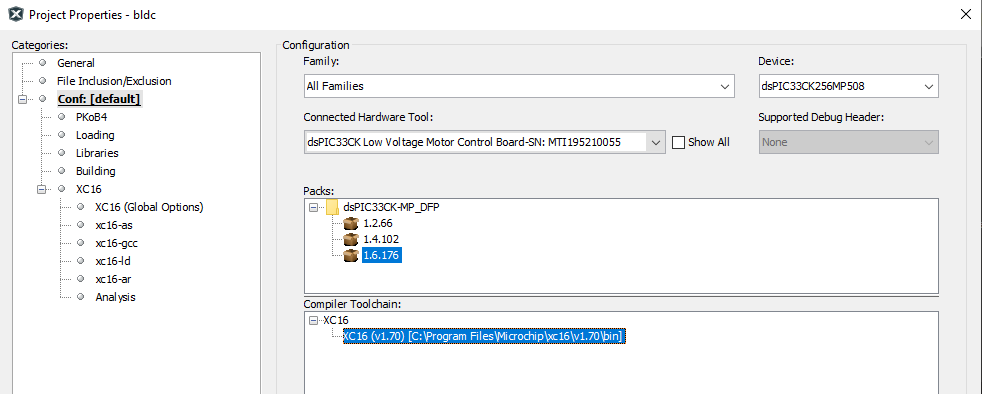
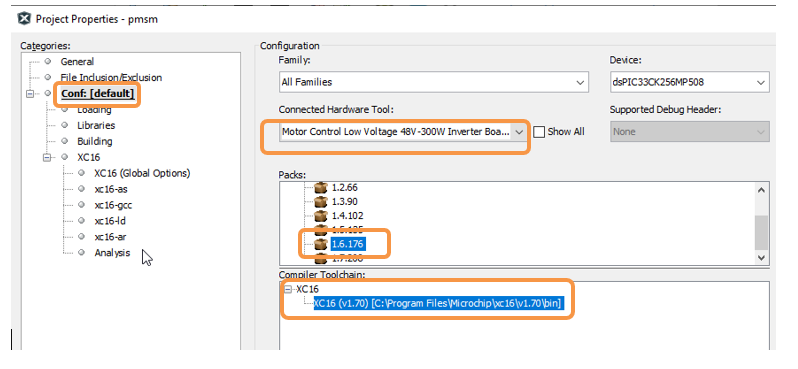
Created a Readme file for the project

diff --git a/README.md b/README.md
@@ -1,20 +1,262 @@
 ![image](images/microchip.jpg) 
 
-## mclv 48v 300w an1017
+## MCLV-48V-300W dsPIC33CK256MP508 AN1017
 
-Board Image if any.
+## 1. INTRODUCTION
+<p style='text-align: justify;'>
+This document describes the setup requirements for running the Sensored BLDC/PMSM Motor Control Algorithm, which is referenced in AN1017 “Sinusoidal Control of PMSM Motors” using a MCLV-48V-300W Inverter Board and dsPIC33CK256MP508 Motor Control Dual In-line Module (DIM).</p>
 
 ## Summary
+## 2.	SUGGESTED DEMONSTRATION REQUIREMENTS
+
+### 2.1 Motor Control Application Firmware Required for the Demonstration
+To clone or download this application from Github, go to the [main page of this repository](https://github.com/microchip-pic-avr-solutions/mclv-48v-300w-an1017) and then click Clone button to clone this repository or download as zip file.
+> **_NOTE:_**
+>In this document, hereinafter this firmware package is referred as firmware.
+### 2.2 Software Tools Used for Testing the firmware
+
+- MPLAB® X IDE v5.50 
+- MPLAB® XC16 Compiler v1.70
+- MPLAB® X IDE Plugin: X2C-Scope v1.3.0 
+- DFP: dsPIC33CK-MP_DFP v1.6.176
+> **_NOTE:_**
+>The software used for testing the firmware prior to release is listed above. It is recommended to use the version listed above or later versions for building the firmware.
+### 2.3 Hardware Tools Required for the Demonstration
+- MCLV-48V-300W Inverter Board (EV18H47A)
+- 	dsPIC33CK256MP508 Motor Control DIM (EV62P66A)
+- 24V Power Supply [(AC002013)](https://www.microchipdirect.com/dev-tools/AC002013)
+- 24V 3-Phase Brushless DC Motor [(AC300020)](https://www.microchip.com/en-us/development-tool/AC300020)
+  <br />
+> **_NOTE:_**
+> All items listed under the section Hardware Tools Required for the Demonstration are available at [microchip DIRECT](https://www.microchipdirect.com/)
+
+## 3. HARDWARE SETUP
+<p style='text-align: justify;'>This section describes hardware setup required for the demonstration.</p>
+
+1. <p style='text-align: justify;'> Insert the dsPIC33CK256MP508 Motor Control DIM into the DIM Interface Connector J8 provided on the MCLV-48V-300W Inverter Board. Make sure the DIM is placed correctly and oriented before going ahead.</p>
+
+   <p align="left">
+    <img  src="images/dimconnected.PNG"></p>
+
+2. <p style='text-align: justify;'> Connect the three phase wires from the motor to PHA, PHB & PHC terminals of connector J14, provided on the MCLV-48V-300W Inverter Board. as mentioned in the below table. </p>
+
+   | MCLV Board|Hurst075 Motor| |
+   | :--------:| :-----------:|:--:|
+    |           |Winding Terminals (Color as per image below) | Molex 39-01-2040(Mating Connector)    |
+    | PHC   | Red   | 1|
+    | PHB   | Black | 2|
+    | PHA   | White | 3|
 
 
-## Related Documentation
+3. <p style='text-align: justify;'>Connect the hall sensors from the motor to HA, HB and HC terminals of connector J5, provided on the MCLV-48V-300W Inverter Board as mentioned in the below table. </p>
+
+    |MCLV2 Board|	Hurst075 Motor||
+    |:---:|:----------------------:|:----------------------:|
+    ||Hall Terminals(Color as per image above)|	Molex 50-57-9408 (Mating Connector)|
+     |5V|	Red|	1|
+     |GND|	Black|	2|
+     |HA	| White	|4|
+     |HB	|Brown|	3|
+     |HC|	Green|	5|
+  
 
 
-## Software Used 
+     <p align="left">
+       <img  src="images/motorconnection.png"></p>
+
+4.  <p style='text-align: justify;'>	Plug in the 24V power supply to connector J1 provided on the MCLV-48V-300W Inverter Board. Alternatively, the Inverter Board can also be powered through Connector J3.</p>
+      <p align="left">
+      <img  src="images/mclvpower.png"></p>
+ 
+
+ 5.	<p style='text-align: justify;'>The board has an onboard programmer ‘PICkit™ On Board (PKoB4)’ , which can be used for programming or debugging the dsPIC33CK256MP508. To use an on-board programmer, connect a micro-USB cable between Host PC and Connector J16 provided on the MCLV-48V-300W Inverter Board.</p>
 
 
-## Hardware Used
+      <p align="left">
+     <img  src="images/mclvpkob4.png"></p>
 
+ 6.	<p style='text-align: justify;'>Alternatively, the device can also be programmed using the programmer/debugger (MPLAB® PICkit™ 4 In-Circuit Debugger - PG164140) by interfacing it through connector J9 of the MCLV-48V-300W Inverter Board as shown below. Ensure that the programmer is oriented correctly before proceeding.</p> 
+
+      <p align="left">
+       <img  src="images/mclvprogramming.PNG"></p>
+ 
+<br />
+
+##  4. SOFTWARE SETUP AND RUN
+### 4.1 Setup: MPLAB X IDE and MPLAB XC16 Compiler
+
+Install MPLAB X IDE and MPLAB XC16 Compiler versions that support the device dsPIC33CK256MP508 and PKoBv4. The MPLAB X IDE, MPLAB XC16 Compiler, and X2C-Scope plug-in used for testing the firmware are mentioned in the [Motor Control Application Firmware Required for the Demonstration](#21-motor-control-application-firmware-required-for-the-demonstration) section. To get help on  
+
+- MPLAB X IDE installation, refer [link](https://microchipdeveloper.com/mplabx:installation)
+- MPLAB XC16 Compiler installation steps, refer [link](https://microchipdeveloper.com/xc16:installation)
+
+<p style='text-align: justify;'>If MPLAB IDE v8 or earlier is already installed on your computer, then run the MPLAB driver switcher (It is installed when MPLAB®X IDE is installed) to switch from MPLAB IDE v8 drivers to MPLAB X IDE drivers. If you have Windows 7 or 8, you must run MPLAB driver switcher in ‘Administrator Mode’. To run the Device Driver Switcher GUI application as administrator, right click on the executable (or desktop icon) and select ‘Run as Administrator’. For additional details refer MPLAB X IDE help topic <i>“Before You Begin: Install the USB Device Drivers (For Hardware Tools): USB Driver Installation for Windows Operating Systems”</i>. </p>
+
+### 4.2  X2C-Scope
+<p style='text-align: justify;'>
+X2C-Scope is a MPLAB X IDE plugin that allows a developer to interact with an application while the application program is running. X2C-Scope enables you to read, write, and plot global variables (for motor control) in real time. It communicates with the target using the UART. To use X2C-Scope, the plugin must be installed:</p>
+
+- In MPLAB X IDE, select <i>Tools>Plugins</i> and click on the Available Plugins tab.
+- Select X2C-Scope plug-in by checking its check box, and then click Install.
+- Look for tool X2C-Scope under <i>Tools>Embedded.</i>
+   <p align="left">
+  <img  src="images/x2cscopeconfiguration.png"></p>
+ 
+<br />
+
+## 5.  BASIC DEMONSTRATION
+### 5.1 Firmware Description
+
+The firmware version needed for the demonstration is mentioned under the [Motor Control Application Firmware Required for the Demonstration](#21-motor-control-application-firmware-required-for-the-demonstration) section.
+<p style='text-align: justify;'>
+This firmware is implemented to work on Microchip’s 16-bit Digital signal controller (dsPIC® DSC) dsPIC33CK256MP508. 
+For more information, see the dsPIC33CK256MP508 Family datasheet (DS70005349).</p>
+<p style='text-align: justify;'>
+The Motor Control Demo application uses push button to start or stop the motor and potentiometer to vary speed of the motor.This Motor Control Demo Application configures and uses peripherals like PWM, ADC, UART etc.</p>
+
+<p style='text-align: justify;'>
+
+For more details refer Microchip Application note AN1078 “Sensorless Field Oriented Control of a PMSM” available at [Microchip web site](https://www.microchip.com/). </p>
+
+> **_NOTE:_**
+> The project may not build correctly in Windows OS if Maximum path length of any source file in the project is more than 260 characters. In case absolute path is exceeding or nearing maximum length, do any (or both) of the following:
+> - Shorten the directory name containing the firmware used in this demonstration. If you renamed the directory, consider the new name while reading the instructions provided in the upcoming sections of the document.
+> - Place firmware in a location, such that absolute path length of each file included in the projects does not exceed the Maximum Path length specified. 
+Refer to MPLAB X IDE help topic <i>“Path, File, and Folder Name Restrictions”</i> for details.
+
+### 5.2 Basic Demonstration
+<p style='text-align: justify;'>
+Follow below instructions step by step to setup and run the motor control demo application:</p>
+
+1.  <p style='text-align: leftjustify;'> Start MPLAB X IDE and open<span style="font-family:Courier New; font-size:;"> (File>Open Project)</span> the project <span style="font-family:Courier New; font-size:;">bldc.X</span> with device selection dsPIC33CK256MP508.</p>
+     <p align="left">
+       <img  src="images/idedeviceselection.png"></p>
+
+2. <p style='text-align: leftjustify;'> Set the project <span style="font-family:Courier New; font-size:;">bldc.X </span>as main project by right clicking on the project name and selecting “Set as Main Project” as shown. The project <b>bldc</b> will then appear in bold.</p>
+    <p align="left">
+     <img  src="images/ideprojectsetup.png"></p>
+
+3.  <p style='text-align: leftjustify;'> Open <span style="font-family:Courier New; font-size:;">bldc_main.h </span>(under<span style="font-family:Courier New; font-size:;"> bldc.X -> headerfiles)</span> in the project <span style="font-family:Courier New; font-size:;">bldc.X</span> </p>
+     <p style='text-align: leftjustify;'>
+- Ensure that <span style="font-family:Courier New; font-size:;"> OPENLOOP</span>is not defined.
+      <p align="left"><img  src="images/projectopenloopsetup.png"></p>
+- Comment out the <span style="font-family:Courier New; font-size:;"> #define PHASE_ADVANCE </span>for above base speed applications
+        <p align="left"> <img  src="images/projectphase advancesetup.png"></p>
+4. Right click on the project <i>bldc.X</i> and select “Properties”  to open its Project Properties Dialog.Click the “Conf: [default]” category to reveal the general project configuration information. The development tools used for testing the firmware are listed in the section [2.2 Software Tools Used for Testing the firmware](#22-software-tools-used-for-testing-the-firmware).
+   <p style='text-align: justify;'>
+    In the <b><i>‘Conf: [default]’</i></b> category window: 
+    <p style='text-align: justify;'>  
+- Select the specific Compiler Toolchain from the available list of compilers. Please ensure MPLAB® XC16 Compiler supports the device dsPIC33CK256MP508.In this case, “XC16(v1.70)” is selected.
+      <p style='text-align: justify;'>
+ - Select the Hardware Tool to be used for programming and debugging. 
+       <p style='text-align: justify;'>
+-	Select the specific Device Family Pack (DFP) from the available list of Packs. In this case, “dsPIC33CK-MP_DFP 1.6.176” is selected.     
+ -   After selecting Hardware Tool and Compiler Toolchain, click button <b>Apply</b>
+        <p align="left">
+        <img  src="images/properties.png"></p>    
+
+5. <p style='text-align: justify;'> Ensure that the checkbox <b>“Load symbols when programming or building for production (slows process)”</b> is checked, which is under the “Loading” category of the Project Properties window.</p>        
+        
+      <p align="left">
+      <img  src="images/loadvariables.png"></p>
+
+6. <p style='text-align: justify;'>	 To build the project (in this case pmsm.X) and program the device dsPIC33CK256MP508, click <b>“Make and Program Device Main project”</b> on the toolbar.</p>
+    <p align="left">
+    <img  src="images/deviceprogramming.png"></p>
+  
+7. <p style='text-align: justify;'>	 	If the device is successfully programmed, <b>LD2 (‘LED1’)</b>  will be turned ON, indicating that the dsPIC® DSC is enabled. </p> 
+    <p align="left">
+     <img  src="images/led.png"></p>
+
+
+8. <p style='text-align: justify;'> 	Run or stop the motor by pressing the push button <b>SW1</b>. The motor should start spinning smoothly in one direction in the ‘Normal Speed Range’. Ensure that the motor is spinning smoothly without any vibration. The LED LD2 (‘LED1’) is turned ON to show the button is pressed to start the motor </p>
+     <p align="left">
+     <img  src="images/pushbuttons.png"></p>
+
+ 9.  <p style='text-align: justify;'> The motor speed can    be   varied using the potentiometer (labeled “POT1”).</p>
+    
+     <p align="left">
+      <img  src="images/potentiometer.png"></p>
+
+ 
+10.	<p style='text-align: justify;'>9.	To reverse the direction of rotation, press the push button  <b>SW2</b>.  
+      <p align="left">
+     <img  src="images/stopButton.png"></p>
+  
+
+11. <p style='text-align: justify;'>	Press the push button <b>SW1</b> to stop the motor.</p>
+
+>**_NOTE:_**
+>The macro definitions MAX_MOTORSPEED, MAX_MOTORCURRENT, POLEPAIRS, SECTOR and MAX_BOARDCURRENT are specified in bldc_main.h file included in the project bldc.X. The definitions MAX_MOTORSPEED and MAX_MOTORCURRENT are defined as per the specification provided by the Motor manufacturer. Exceeding manufacturer specification may lead to damage to the motor or (and) the board.  
+
+## 5.3  Data visualization through X2C-Scope Plug-in of MPLABX
+<p style='text-align: justify;'>
+ X2C-Scope is a third-party plug-in for MPLAB X, which helps in real-time diagnostics. The application firmware comes with the initialization needed to interface controller with the host PC to enable data visualization through X2C-Scope plug-in.</p>
+
+1. Ensure X2C-Scope Plug-in is installed. For additional information on how to set up a plug-in refer [https://microchipdeveloper.com/mplabx:tools-plugins-available](https://microchipdeveloper.com/mplabx:tools-plugins-available)
+ 
+2.	To establish serial communication with the host PC, connect a micro-USB cable between the host PC and the MCLV-48V-300W Inverter Board (connector J16). This interface is also used for programming.
+
+
+3. Ensure application is configured and running as described under Section [Basic Demonstration](#5-basic-demonstration   ) by following steps 1 through 11.
+
+ 
+
+4. Open the X2C-Scope window by selecting <span style="font-family:Courier New; font-size:;">Tools>Embedded>X2CScope.</span></p>
+      <p align="left">
+       <img  src="images/x2cselection.png"></p>
+ 
+
+5. Open the X2C-Scope Configuration window and in <b>“Select project”</b> menu, select <b>pmsm</b> project as shown.
+    <p align="left">
+    <img  src="images/x2cprojectselection.png"></p>
+
+6.	Serial communication needs to be set up, as shown in the following figure. Ensure the communication baud rate is set to 115200 as configured in the application firmware. The COM port used depends on the system settings. The <span style="font-family:Courier New; font-size:;">refresh button</span> lists the available COM Ports. Select the COM Port as per the connection.
+
+    <p align="left">
+     <img  src="images/x2cconnectionsetup.png"></p>
+ 
+
+
+7. Once the COM port is detected, click on “Disconnected” and turn to “Connected”, to establish a serial communication between Host PC and the board.
+     <p align="left">
+    <img  src="images/x2cconnectionbutton.png"></p>
+
+
+8. Set the “Project Setup” as shown below and click “Set Values”. Set Scope sample time as interval at which <span style="font-family:Courier New; font-size:1;">X2CScopeUpdate()</span> is called. In this application it is every 50µs.
+      <p align="left">
+      <img  src="images/x2cprojectsetup.png"></p>
+
+
+9. When the setup is established, click on open scope View (under sub window “Data Views”), this opens 'Scope Window'.
+     <p align="left">
+      <img  src="images/x2cdataview.png"></p>
+    	     
+
+10. In this window, select the variables that needs to be monitored. To do this, click on the source against each channel, a window Select Variables opens upon the screen. From the available list, the required variable can be chosen. Ensure check boxes Enable & Visible are checked for the variables to be plotted.<br>
+To view data plots continuously, uncheck<span style="font-family:Courier New; font-size:1;"> Single-shot</span>. When <span style="font-family:Courier New; font-size:1;">Single-shot</span> is checked it captures the data once and stops. The Sample time factor value multiplied with Sample time determines the time difference between any two consecutive data points on the plot.
+    <p align="left">
+    <img  src="images/x2cdatapointselection.png"></p>
+
+11.	Click on SAMPLE, then X2C-Scope window shows variables in real time, which is updated automatically.
+     <p align="left">
+     <img  src="images/x2csample.png"></p>
+ 
+
+12.	Click on ABORT to stop.
+     <p align="left">
+     <img  src="images/x2cabort.png"></p>
+ 
+ ## 6. REFERENCES:
+For additional information, refer following documents or links.
+1. AN1017 Application Note “Sinusoidal Control of PMSM Motors with dsPIC30F / dsPIC33F/ dsPIC33E DSC”
+2. AN957 Application Note “Sensored BLDC Motor Control Using dsPIC30F2010”
+3. MCLV-48V-300W Inverter Board User’s Guide 
+4. dsPIC33CK256MP508 Family datasheet (DS70005349).
+5. Family Reference manuals (FRM) of dsPIC33CK256MP508 family
+6. MPLAB® X IDE User’s Guide (DS50002027) or MPLAB® X IDE help
+7. [MPLAB® X IDE installation](http://microchipdeveloper.com/mplabx:installation)
+8. [MPLAB® XC16 Compiler installation](http://microchipdeveloper.com/xc16:installation)
 
 ## Setup
 
